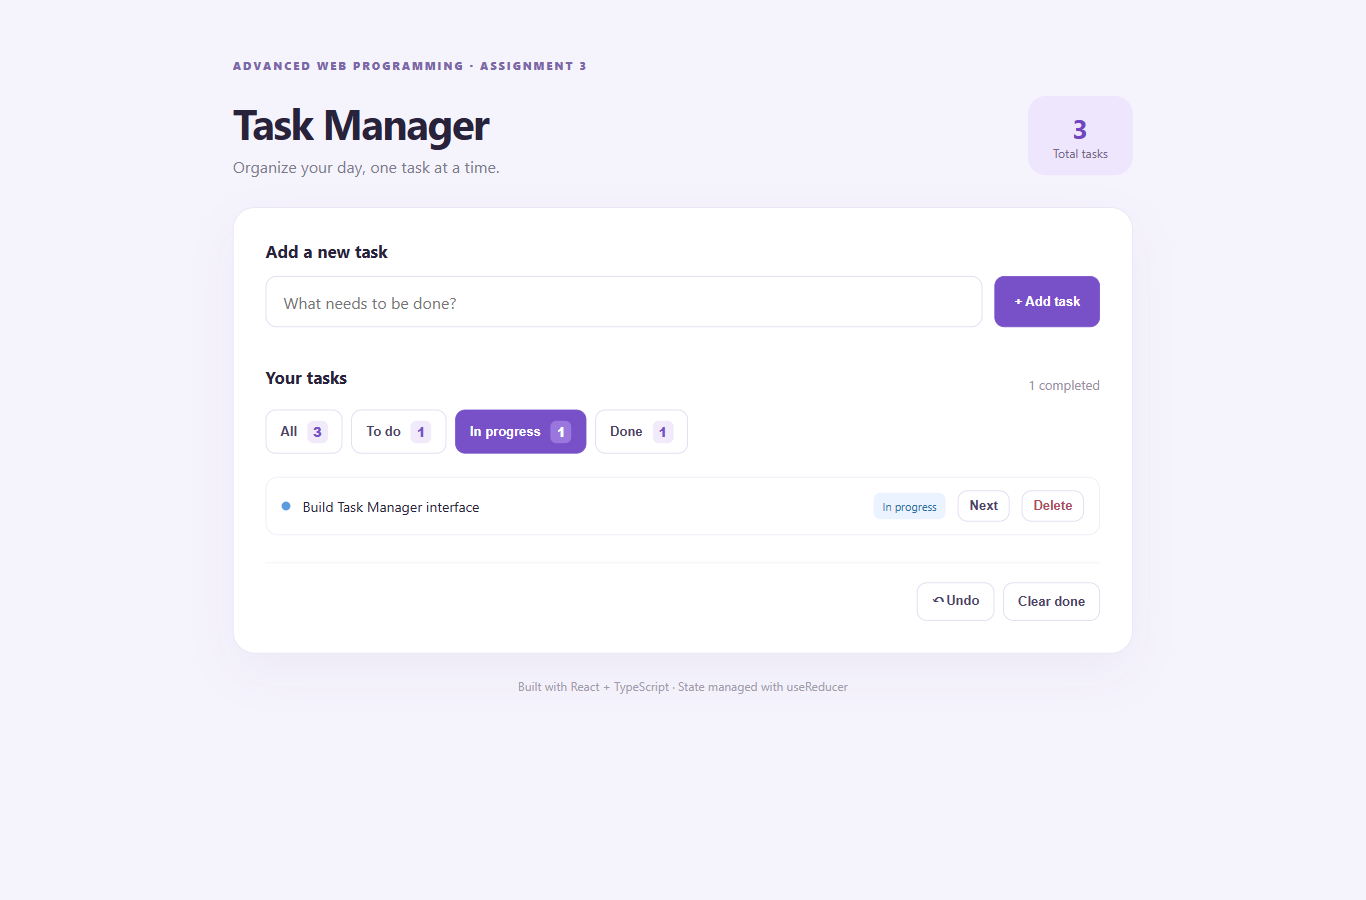
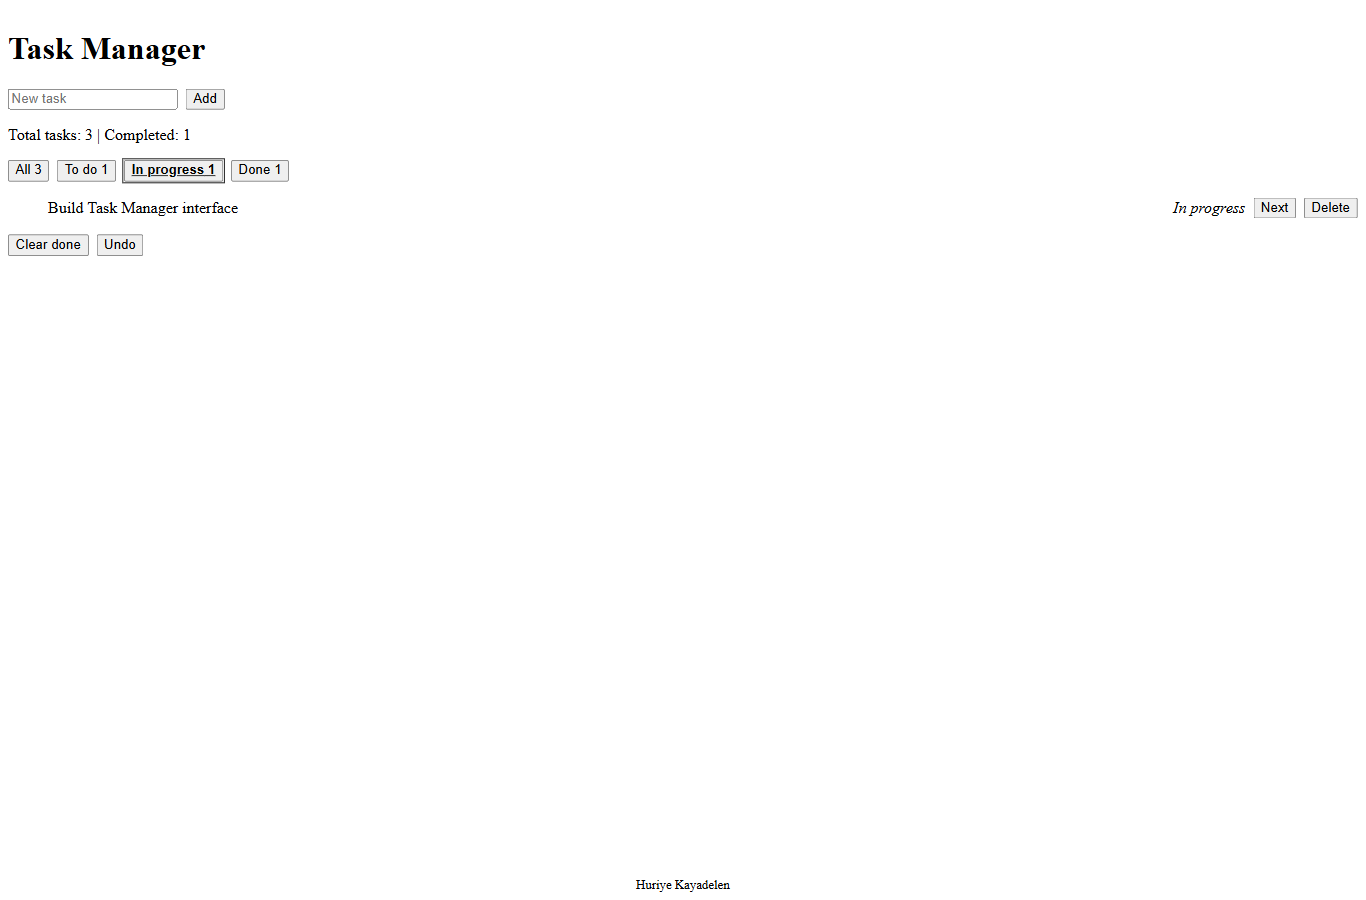
style: match original starter appearance and add name footer

diff --git a/src/style.css b/src/style.css
@@ -1,2 +1,34 @@
-*{box-sizing:border-box}body{margin:0;background:#f5f3fc;color:#28233b;font-family:Inter,ui-sans-serif,system-ui,-apple-system,Segoe UI,sans-serif}.app-shell{width:min(900px,calc(100% - 48px));margin:58px auto}.eyebrow{font-size:11px;letter-spacing:2px;font-weight:800;color:#7c68a9}header{display:flex;align-items:center;justify-content:space-between;margin:22px 0 30px}h1{font-size:42px;letter-spacing:-1.5px;margin:0 0 5px}header p{margin:0;color:#807a8d}.total{background:#ede6fd;border-radius:18px;padding:14px 25px;text-align:center;display:flex;flex-direction:column}.total strong{font-size:27px;color:#7044c3}.total span{font-size:12px;color:#75678b}.panel{background:white;border:1px solid #e9e3f5;box-shadow:0 18px 50px #41306f0b;border-radius:22px;padding:32px}h2{font-size:17px;margin:0 0 14px}.add-form{display:flex;gap:12px;margin-bottom:38px}input{flex:1;min-width:0;padding:14px 17px;border:1px solid #ddd7ed;border-radius:11px;font:inherit;outline-color:#8b67d0}button{border:1px solid #ddd7ed;background:#fff;color:#4c4267;padding:10px 14px;border-radius:10px;font-weight:650;cursor:pointer;font-size:13px}button:hover:not(:disabled){border-color:#9679d8;background:#f8f4ff}button:disabled{cursor:not-allowed;opacity:.4}.primary{background:#7851c9;color:white;border-color:#7851c9;padding:12px 19px}.primary:hover:not(:disabled){background:#6842ba;color:white}.section-header{display:flex;justify-content:space-between;align-items:center}.section-header span{color:#988fa7;font-size:13px}.filters{display:flex;gap:9px;flex-wrap:wrap;margin:8px 0 23px}.filter-button{display:flex;align-items:center;gap:10px}.filter-button.selected{color:white;background:#7851c9;border-color:#7851c9}.count{font-weight:800;border-radius:6px;padding:2px 6px;background:#f0eafb;color:#7851c9}.selected .count{background:#9977dd;color:white}.task-list{padding:0;margin:0;list-style:none;display:grid;gap:10px}.task-row{display:flex;align-items:center;gap:12px;border:1px solid #eeeaf4;padding:13px 15px;border-radius:12px}.status-dot{width:9px;height:9px;border-radius:100%;flex-shrink:0}.status-dot.todo{background:#d6ad51}.status-dot.in-progress{background:#5b9cdd}.status-dot.done{background:#55b58b}.task-title{flex:1;font-size:14px;overflow-wrap:anywhere}.status-pill{font-size:11px;border-radius:7px;padding:6px 9px;white-space:nowrap}.status-pill.todo{background:#fff5df;color:#936f27}.status-pill.in-progress{background:#eaf3ff;color:#286da3}.status-pill.done{background:#e6f7ef;color:#23744c}.task-row button{padding:7px 11px}.task-row .delete{color:#ac4c63}.actions{margin-top:27px;padding-top:19px;border-top:1px solid #f0edf6;display:flex;justify-content:flex-end;gap:9px}.empty{padding:55px 15px;text-align:center;border:1px dashed #e5deee;border-radius:14px;color:#635675;font-weight:650}.empty span{display:block;margin-top:8px;font-size:12px;color:#a49aad;font-weight:400}footer{text-align:center;font-size:12px;color:#a29aaf;margin-top:25px}@media(max-width:650px){.app-shell{width:calc(100% - 24px);margin:25px auto}.panel{padding:19px}header{align-items:flex-start}h1{font-size:30px}.total{padding:10px}.add-form{flex-wrap:wrap}.add-form input{flex-basis:100%}.task-row{flex-wrap:wrap}.task-title{flex-basis:calc(100% - 30px)}.status-pill{margin-right:auto}}
-.filter-button.selected:hover:not(:disabled){background:#6842ba;border-color:#6842ba;color:white}button:focus-visible,input:focus-visible{outline:3px solid #9164d8;outline-offset:3px}
+/* starter.zip has no CSS: retain native fonts, colors, controls and body margin.
+   TaskRow's flex layout and 8px gap come directly from the starter component.
+   The remaining layout supports filters, the footer and narrow screens. */
+#root {
+  min-height: calc(100svh - 16px);
+  display: flex;
+  flex-direction: column;
+}
+main { flex: 1; min-width: 0; }
+.add-form, .filters, .actions {
+  display: flex;
+  flex-wrap: wrap;
+  gap: 8px;
+}
+.add-form input { min-width: 0; max-width: 100%; }
+.filter-button.selected {
+  font-weight: bold;
+  text-decoration: underline;
+  outline: 1px solid currentColor;
+  outline-offset: 1px;
+}
+.task-row {
+  display: flex;
+  gap: 8px;
+  align-items: center;
+  margin-bottom: 8px;
+}
+.task-title { flex: 1; min-width: 0; overflow-wrap: anywhere; }
+.status-pill { white-space: nowrap; }
+footer { margin-top: 16px; text-align: center; font-size: 0.8rem; }
+@media (max-width: 480px) {
+  .task-row { flex-wrap: wrap; }
+  .task-title { flex-basis: 100%; }
+}

diff --git a/src/App.tsx b/src/App.tsx
@@ -20,8 +20,8 @@ function AddForm({ dispatch }: { dispatch: Dispatch<Action> }) {
   }
   return (
     <form onSubmit={addTask} className="add-form">
-      <input name="title" aria-label="New task" placeholder="What needs to be done?" maxLength={120} required />
-      <button type="submit" className="primary">+ Add task</button>
+      <input name="title" aria-label="New task" placeholder="New task" maxLength={120} required />
+      <button type="submit">Add</button>
     </form>
   )
 }
@@ -43,7 +43,7 @@ function FilterBar({ filter, counts, dispatch }: {
 }
 
 function TaskList({ tasks, dispatch }: { tasks: Task[]; dispatch: Dispatch<Action> }) {
-  if (tasks.length === 0) return <div className="empty">No tasks here.<span>Try another filter or add a task.</span></div>
+  if (tasks.length === 0) return <p className="empty">No tasks here. Try another filter or add a task.</p>
   return (
     <ul className="task-list">
       {tasks.map((task) => (
@@ -60,24 +60,19 @@ export default function App() {
   const counts = countByFilter(state.tasks)
   const visible = filterTasks(state.tasks, state.filter)
   return (
-    <main className="app-shell">
-      <div className="eyebrow">ADVANCED WEB PROGRAMMING · ASSIGNMENT 3</div>
-      <header>
-        <div><h1>Task Manager</h1><p>Organize your day, one task at a time.</p></div>
-        <div className="total"><strong>{counts.all}</strong><span>Total tasks</span></div>
-      </header>
-      <section className="panel" aria-label="Task manager">
-        <h2>Add a new task</h2>
+    <>
+      <main>
+        <h1>Task Manager</h1>
         <AddForm dispatch={dispatch} />
-        <div className="section-header"><h2>Your tasks</h2><span>{counts.done} completed</span></div>
+        <p>Total tasks: {counts.all} | Completed: {counts.done}</p>
         <FilterBar filter={state.filter} counts={counts} dispatch={dispatch} />
         <TaskList tasks={visible} dispatch={dispatch} />
         <div className="actions">
-          <button type="button" onClick={() => dispatch({ type: 'undo' })} disabled={state.past.length === 0}>↶ Undo</button>
           <button type="button" onClick={() => dispatch({ type: 'clearDone' })} disabled={counts.done === 0}>Clear done</button>
+          <button type="button" onClick={() => dispatch({ type: 'undo' })} disabled={state.past.length === 0}>Undo</button>
         </div>
-      </section>
-      <footer>Built with React + TypeScript · State managed with useReducer</footer>
-    </main>
+      </main>
+      <footer>Huriye Kayadelen</footer>
+    </>
   )
 }

diff --git a/src/TaskRow.tsx b/src/TaskRow.tsx
@@ -7,11 +7,10 @@ const STATUS_LABELS: Record<Status, string> = {
 export default function TaskRow({ task, onNext, onDelete }: TaskRowProps) {
   return (
     <li className="task-row">
-      <span className={`status-dot ${task.status}`} aria-hidden="true" />
       <span className="task-title">{task.title}</span>
-      <span className={`status-pill ${task.status}`}>{STATUS_LABELS[task.status]}</span>
+      <em className="status-pill">{STATUS_LABELS[task.status]}</em>
       <button type="button" onClick={onNext} aria-label={`Next status for ${task.title}`}>Next</button>
-      <button type="button" className="delete" onClick={onDelete} aria-label={`Delete ${task.title}`}>Delete</button>
+      <button type="button" onClick={onDelete} aria-label={`Delete ${task.title}`}>Delete</button>
     </li>
   )
 }

diff --git a/README.md b/README.md
@@ -48,7 +48,7 @@ Test Files  4 passed (4)
      Tests  40 passed (40)
 ```
 
-Final validation on 14 November 2026: npm run build, npm run lint and npm test passed. With Vite running, npm run browser checks Add, the complete Next cycle, Delete, all four filters, counts, Clear done, Undo for every edit type, consecutive Undo, whitespace rejection and mobile overflow in visible Microsoft Edge. The browser check preserves the four original PNGs and does not generate report files.
+Final validation on 14 November 2026: npm run build, npm run lint and npm test passed. With Vite running, npm run browser checks Add, the complete Next cycle, Delete, all four filters, counts, Clear done, Undo for every edit type, consecutive Undo, whitespace rejection and mobile overflow in visible Microsoft Edge. The browser check refreshes the four PNGs through real UI interactions and does not generate report files. It verifies the name footer and checks responsive widths 650, 390 and 320 pixels.
 
 ## Bonus 3: Explain your reducer
 
@@ -74,9 +74,13 @@ git clone assignment3-history.bundle task-manager
 
 Existing Git history is preserved without rewriting commits. Local history, ignore rules, four screenshots, README and the real hosted repository link are included. The repository is public and can be viewed without collaborator access.
 
+## Starter appearance
+
+The supplied starter.zip contains no CSS files or green color definitions. Its App.tsx uses a plain heading, input, Add button and task list; TaskRow.tsx uses flex with an 8px gap, a flexible title, italic status and native Next/Delete buttons. The application follows those actual defaults: browser fonts, native controls and an undecorated page. No custom palette is attributed to the teacher. Minimal extra CSS handles filter selection, narrow screens and the small centered Huriye Kayadelen footer. Required filters, live counts, Clear done and Undo extend the starter; reducer behavior and all 40 tests are retained.
+
 ## Screenshots
 
-Four real Edge captures are included: screenshots/all.png, todo.png, in-progress.png and done.png. The three tasks are Review reducer lecture notes (To do), Build Task Manager interface (In progress) and Write Vitest reducer tests (Done). Counts are 3 / 1 / 1 / 1. These four PNGs are preserved unchanged. The browser script checks the same titles, statuses and selected filters without overwriting them.
+Four real Edge captures are included: screenshots/all.png, todo.png, in-progress.png and done.png. The three tasks are Review reducer lecture notes (To do), Build Task Manager interface (In progress) and Write Vitest reducer tests (Done). Counts are 3 / 1 / 1 / 1. The four PNGs are captured from the current starter-style UI. The browser script checks exact titles, statuses, counts, selected filters and the footer before capturing each view.
 
 ## Submission
 

diff --git a/FINAL_REVIEW.md b/FINAL_REVIEW.md
@@ -32,12 +32,16 @@ Checked against the R1-R7 and four-bonus checklist recorded in this project, plu
 
 README begins with full name and student number. The first line of src/taskReducer.ts contains the same identity. GitHub publication was subsequently authorized. Repository: https://github.com/Hurulayn0/assignment3-task-manager (public). The existing history was preserved without rewriting commits.
 
+## Appearance source
+
+Rechecked C:\Users\USER\Downloads\starter.zip: no CSS or green theme is present. App.tsx supplies native HTML; TaskRow.tsx supplies flex, gap 8, centered alignment, flexible title and italic status. The implementation restores that plain appearance and adds only layout for the required filters, counters, actions, responsive wrapping and small centered name footer. No teacher palette was invented. Screenshots are newly captured from this version.
+
 ## Validation and delivery
 
 - npm run build: PASS, standard TypeScript and Vite production build.
 - npm run lint: PASS.
 - npm test: PASS, all 40 tests across four files, unchanged by cleanup.
 - npm run browser: PASS, visible Edge check against http://localhost:5173/; Add, full status cycle, Delete, four filters, counts, Clear done, Undo, blank input and mobile overflow.
-- Four original PNGs retained unchanged: all.png, todo.png, in-progress.png, done.png.
+- Four real Edge PNGs refreshed for the starter-style UI: all.png, todo.png, in-progress.png, done.png.
 
 The final ZIP is checked for required source, tests, configuration, package files, README, four screenshots and complete Git bundle. node_modules, dist, generated HTML, audit/verification JSON, raw test output and this local review note are excluded. Unused starter CSS/images and standalone build support were removed. No test, reducer or application behavior was removed. StudyBuddy was not modified.
